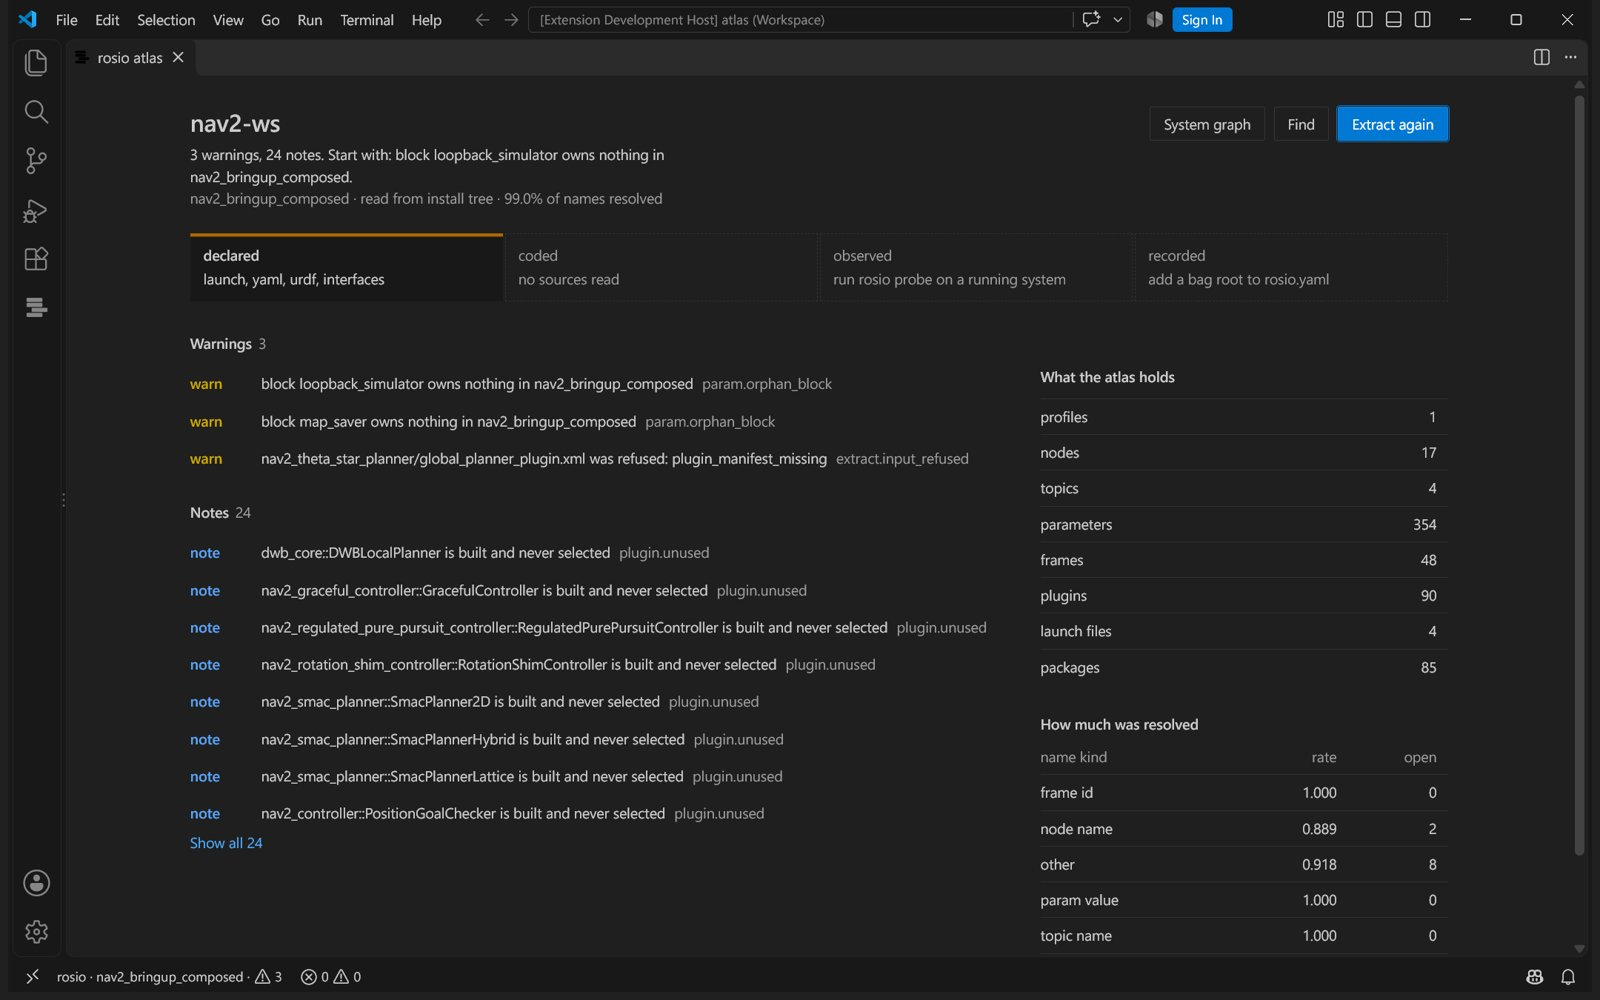
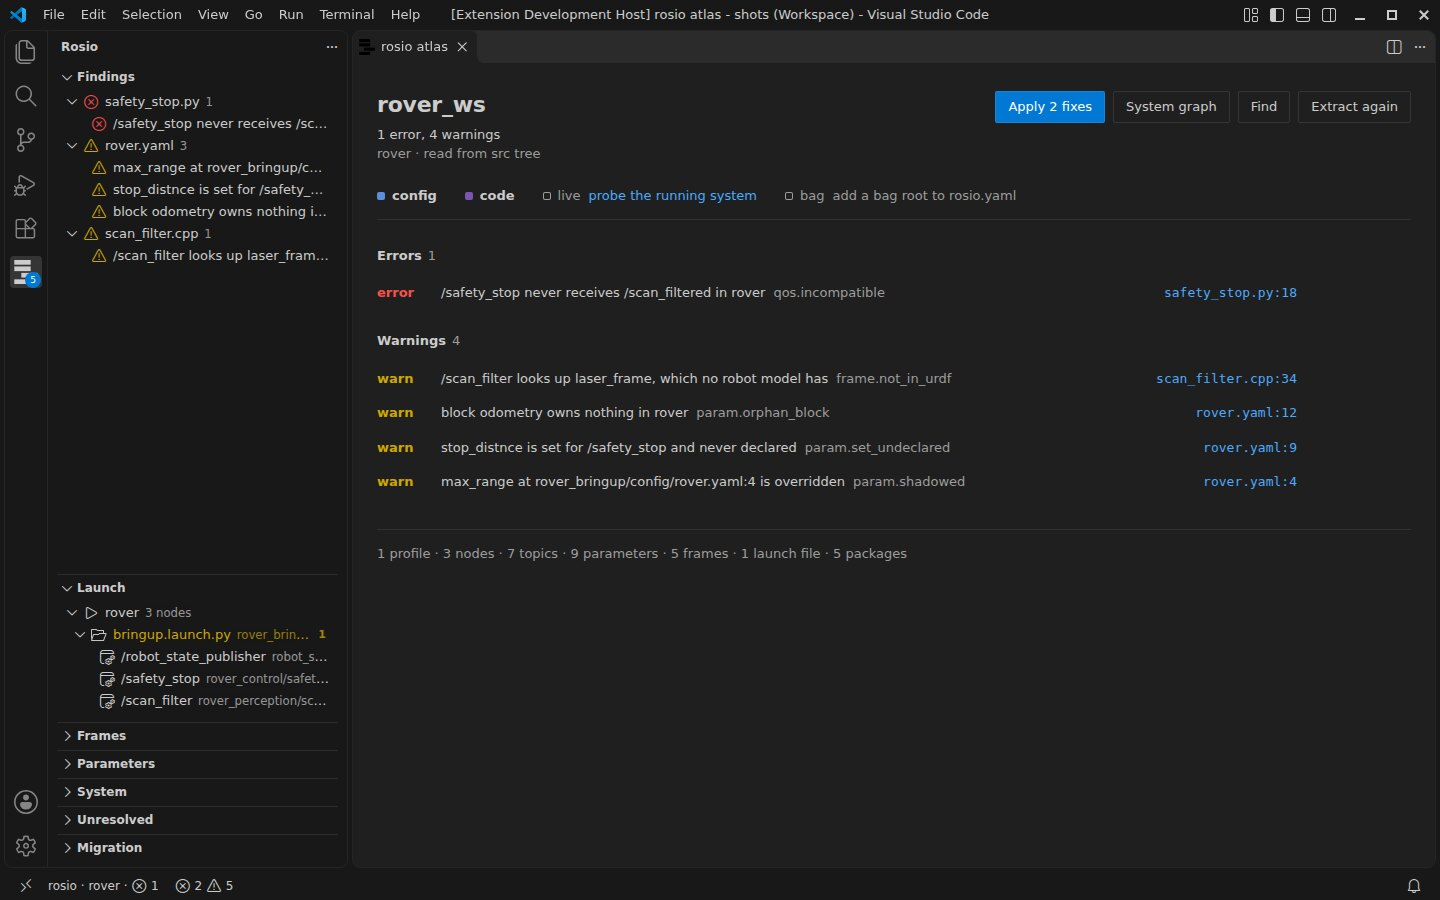
0.2.0

diff --git a/ros/rosio_monitor/setup.py b/ros/rosio_monitor/setup.py
@@ -4,7 +4,7 @@ package_name = "rosio_monitor"
 
 setup(
     name=package_name,
-    version="0.1.0",
+    version="0.2.0",
     packages=[package_name],
     data_files=[
         ("share/ament_index/resource_index/packages", ["resource/" + package_name]),

diff --git a/rosio/__init__.py b/rosio/__init__.py
@@ -1,6 +1,6 @@
 """rosio: a four layer atlas of a ROS 2 system, and the drift between the layers."""
 
-__version__ = "0.1.0"
+__version__ = "0.2.0"
 
 ATLAS_SCHEMA_VERSION = "1"
 

diff --git a/README.md b/README.md
@@ -42,6 +42,7 @@ cd ~/ros2_ws
 rosio init        # writes rosio.yaml, one profile per launch file
 rosio extract     # reads the workspace into rosio-out/atlas.json
 rosio drift       # what is wrong, worst first
+rosio drift --fix # writes the fixes that are one exact replacement
 ```
 
 On `examples/rover_ws`, a small rover with five faults planted on purpose:
@@ -60,10 +61,12 @@ $ rosio drift
          stop_distnce is set for /safety_stop and never declared  (param.set_undeclared)
   warn   rover_bringup/config/rover.yaml:4
          max_range at rover_bringup/config/rover.yaml:4 is overridden  (param.shadowed)
+
+  rosio drift --fix applies 2 exact fixes
 ```
 
-Each finding also carries why it is true, the line to edit, a fix and a sentence an assistant
-can quote. `rosio param`, `rosio path` and `rosio explain` answer one question each, and
+The output above is cut to one line per finding. Each finding also carries why it is true, the
+line to edit, a fix and a sentence an assistant can quote. `rosio param`, `rosio path` and `rosio explain` answer one question each, and
 `rosio render` writes a report and a single file graph. Profiles, roots and every other key
 are in [docs/configuration.md](https://github.com/sa1ntsinner/rosio/blob/main/docs/configuration.md); installing from a checkout and the
 full command list are in [docs/commands.md](https://github.com/sa1ntsinner/rosio/blob/main/docs/commands.md).
@@ -84,8 +87,9 @@ full command list are in [docs/commands.md](https://github.com/sa1ntsinner/rosio
 
 The VS Code extension in `editors/vscode` puts findings on the line they cite, hovers show
 every layer that states a topic, parameter or frame, and code lenses name the other end of each
-publisher and subscription. The editor side is `rosio-lsp`, a Rust language server any LSP
-editor can use; `editors/zed` wires it into Zed. More screenshots are in
+publisher and subscription. A finding whose fix is one exact replacement carries Apply fix, and
+`Ctrl+Alt+.` applies all of them, saves and extracts again. The editor side is `rosio-lsp`, a
+Rust language server any LSP editor can use; `editors/zed` wires it into Zed. More screenshots are in
 [docs/examples.md](https://github.com/sa1ntsinner/rosio/blob/main/docs/examples.md).
 
 ## With your assistant
@@ -109,4 +113,6 @@ list and the privacy model are in [docs/assistants.md](https://github.com/sa1nts
 
 Developed on ROS 2 jazzy with Fast DDS and `rmw_zenoh_cpp`; CI runs jazzy and humble on
 Python 3.10 and newer. The most useful report is a workspace or a recording rosio reads wrongly.
-Apache-2.0.
+
+rosio is free and open source under Apache-2.0. Companies who want support or custom terms can
+get in touch through [GitHub](https://github.com/sa1ntsinner).

diff --git a/docs/examples.md b/docs/examples.md
@@ -82,7 +82,7 @@ line they cite. Hover over a parameter, a topic or a frame to see every layer th
 Go to definition jumps from a topic name in C++ to the remap that renames it. The atlas panel
 answers what the system is and what to look at first.
 
-![The atlas panel on nav2_bringup](https://raw.githubusercontent.com/sa1ntsinner/rosio/main/docs/media/atlas-panel.jpg)
+![The atlas panel and the findings tree on the rover example](https://raw.githubusercontent.com/sa1ntsinner/rosio/main/docs/media/atlas-panel.jpg)
 
 Every node gets a card with its parameters and the value each one ends up with. Every parameter
 gets the chain that decided it, winner first, each value one click from the line that set it.

diff --git a/CHANGELOG.md b/CHANGELOG.md
@@ -1,6 +1,6 @@
 # Changelog
 
-## Unreleased
+## 0.2.0
 
 Atlas schema `1.34` (`0.1.0` wrote `1.32`). Both steps are additive: a reader of a `1.32`
 file loads a `1.34` file.
